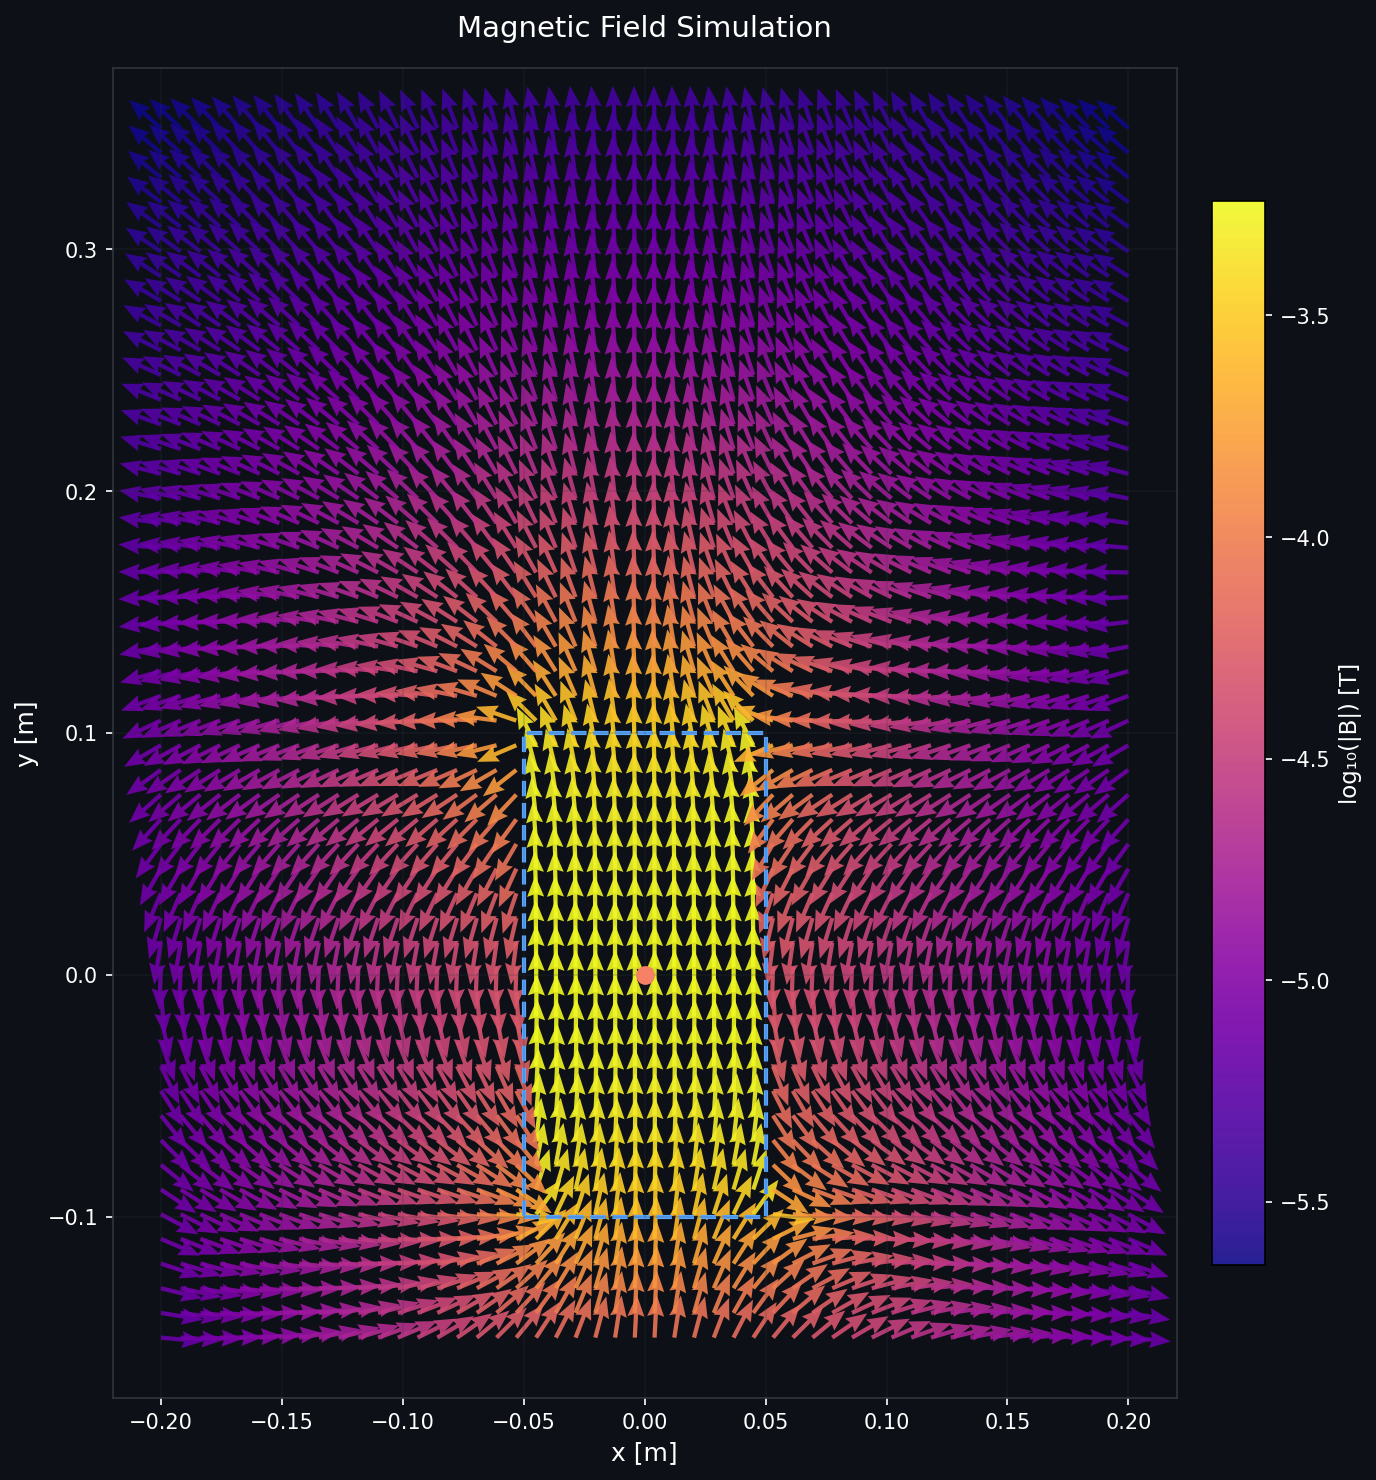
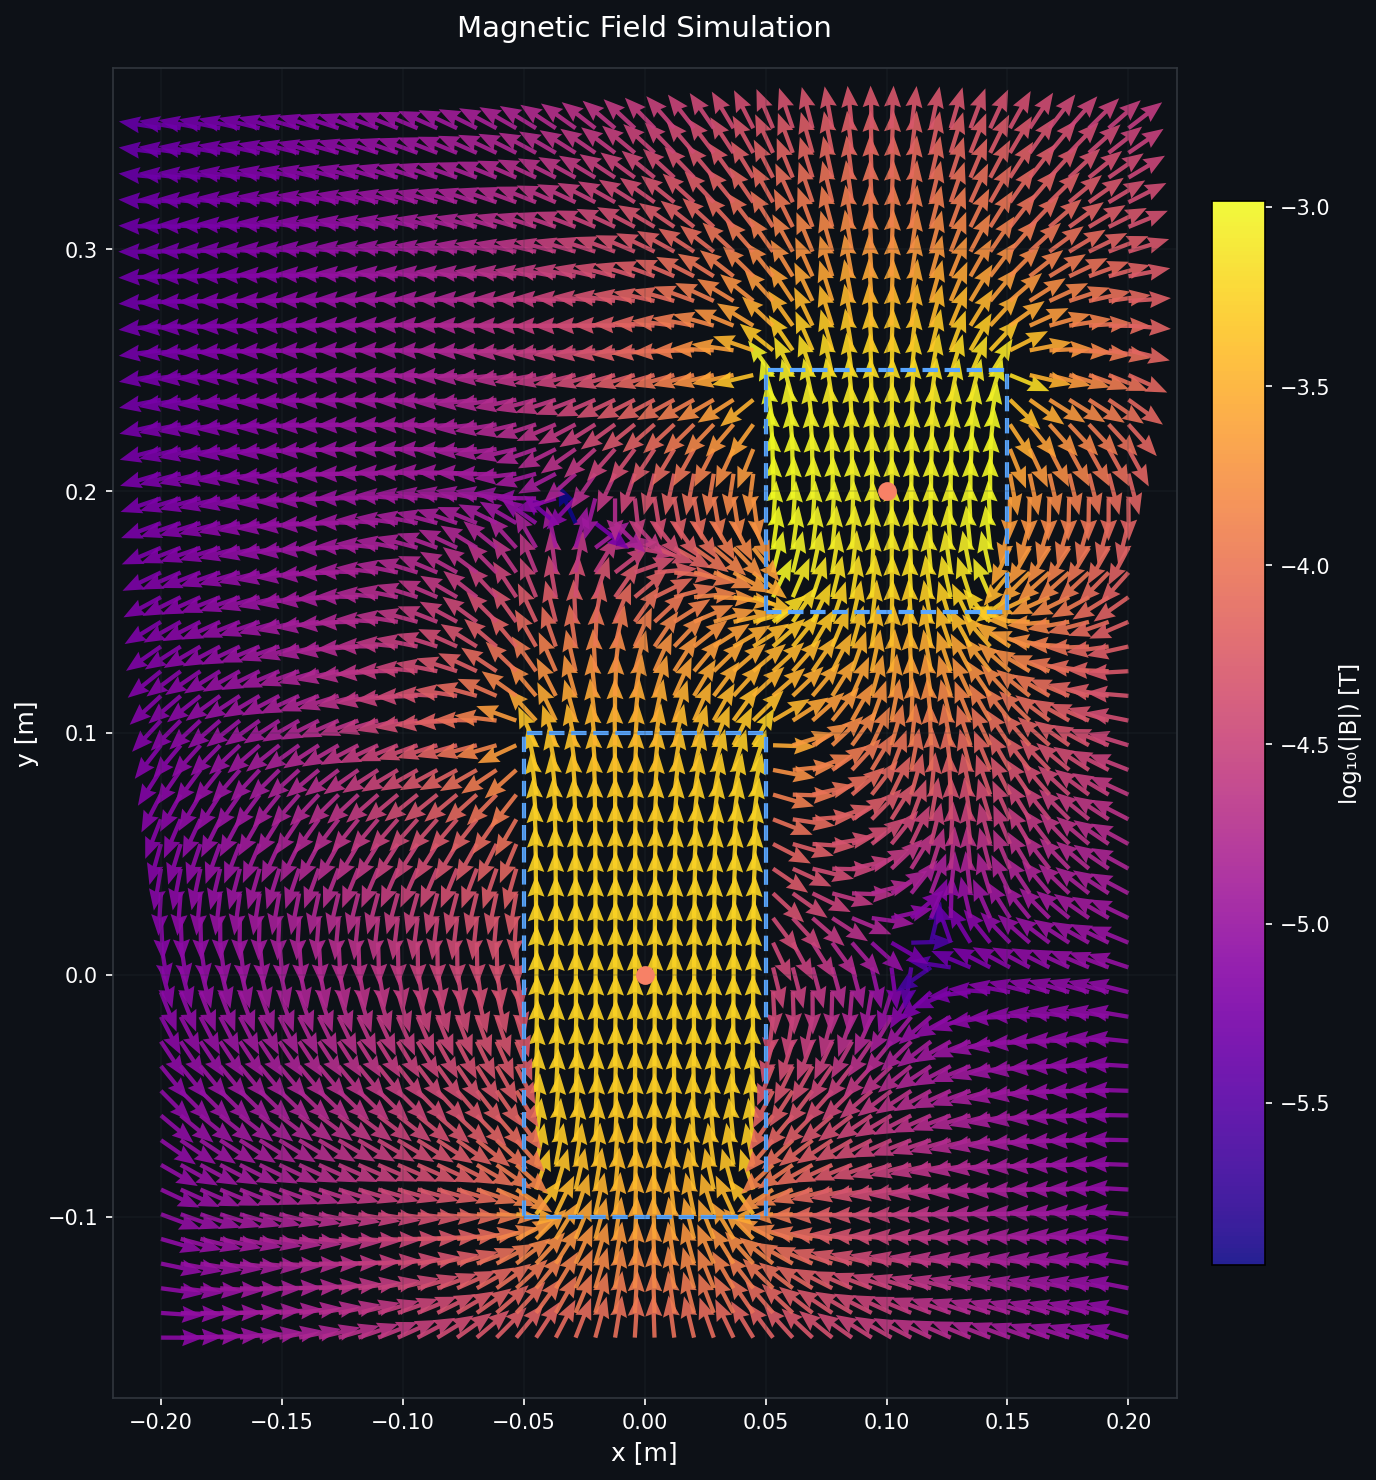
correct megantic field

diff --git a/simulation.py b/simulation.py
@@ -177,16 +177,16 @@ class Coil:
         Br = self._Br(r, ksi_low, ksi_high)
         Bz = self._Bz(r, ksi_low, ksi_high)
 
-        return Br, Bz
+        # Convert to Cartesian: Br points radially outward
+        # For x > coil.x: radial is +x direction
+        # For x < coil.x: radial is -x direction
+        sign_x = np.sign(x - self.x)
+        sign_x = np.where(sign_x == 0, 1, sign_x)  # On axis, default to positive
         
-        # # Convert to Cartesian: Br points radially outward
-        # sign_x = np.sign(x - self.x)
-        # sign_x = np.where(sign_x == 0, 0, sign_x)
+        Bx = Br * sign_x
+        By = Bz
         
-        # Bx = Br #* sign_x
-        # By = Bz
-        
-        # return Bx, By
+        return -Bx, By
 
 
 class MagneticFieldSimulation:
@@ -316,16 +316,16 @@ if __name__ == "__main__":
         current=1.0
     )
     
-    # coil2 = Coil(
-    #     x=0.0, y=0.20,
-    #     radius=0.05,
-    #     length=0.10,
-    #     n_turns=100,
-    #     current=1.0
-    # )
+    coil2 = Coil(
+        x=0.1, y=0.20,
+        radius=0.05,
+        length=0.10,
+        n_turns=100,
+        current=1.0
+    )
     
     sim.add_coil(coil1)
-    # sim.add_coil(coil2)
+    sim.add_coil(coil2)
     
     # Plot the field
     fig, ax = sim.plot(
